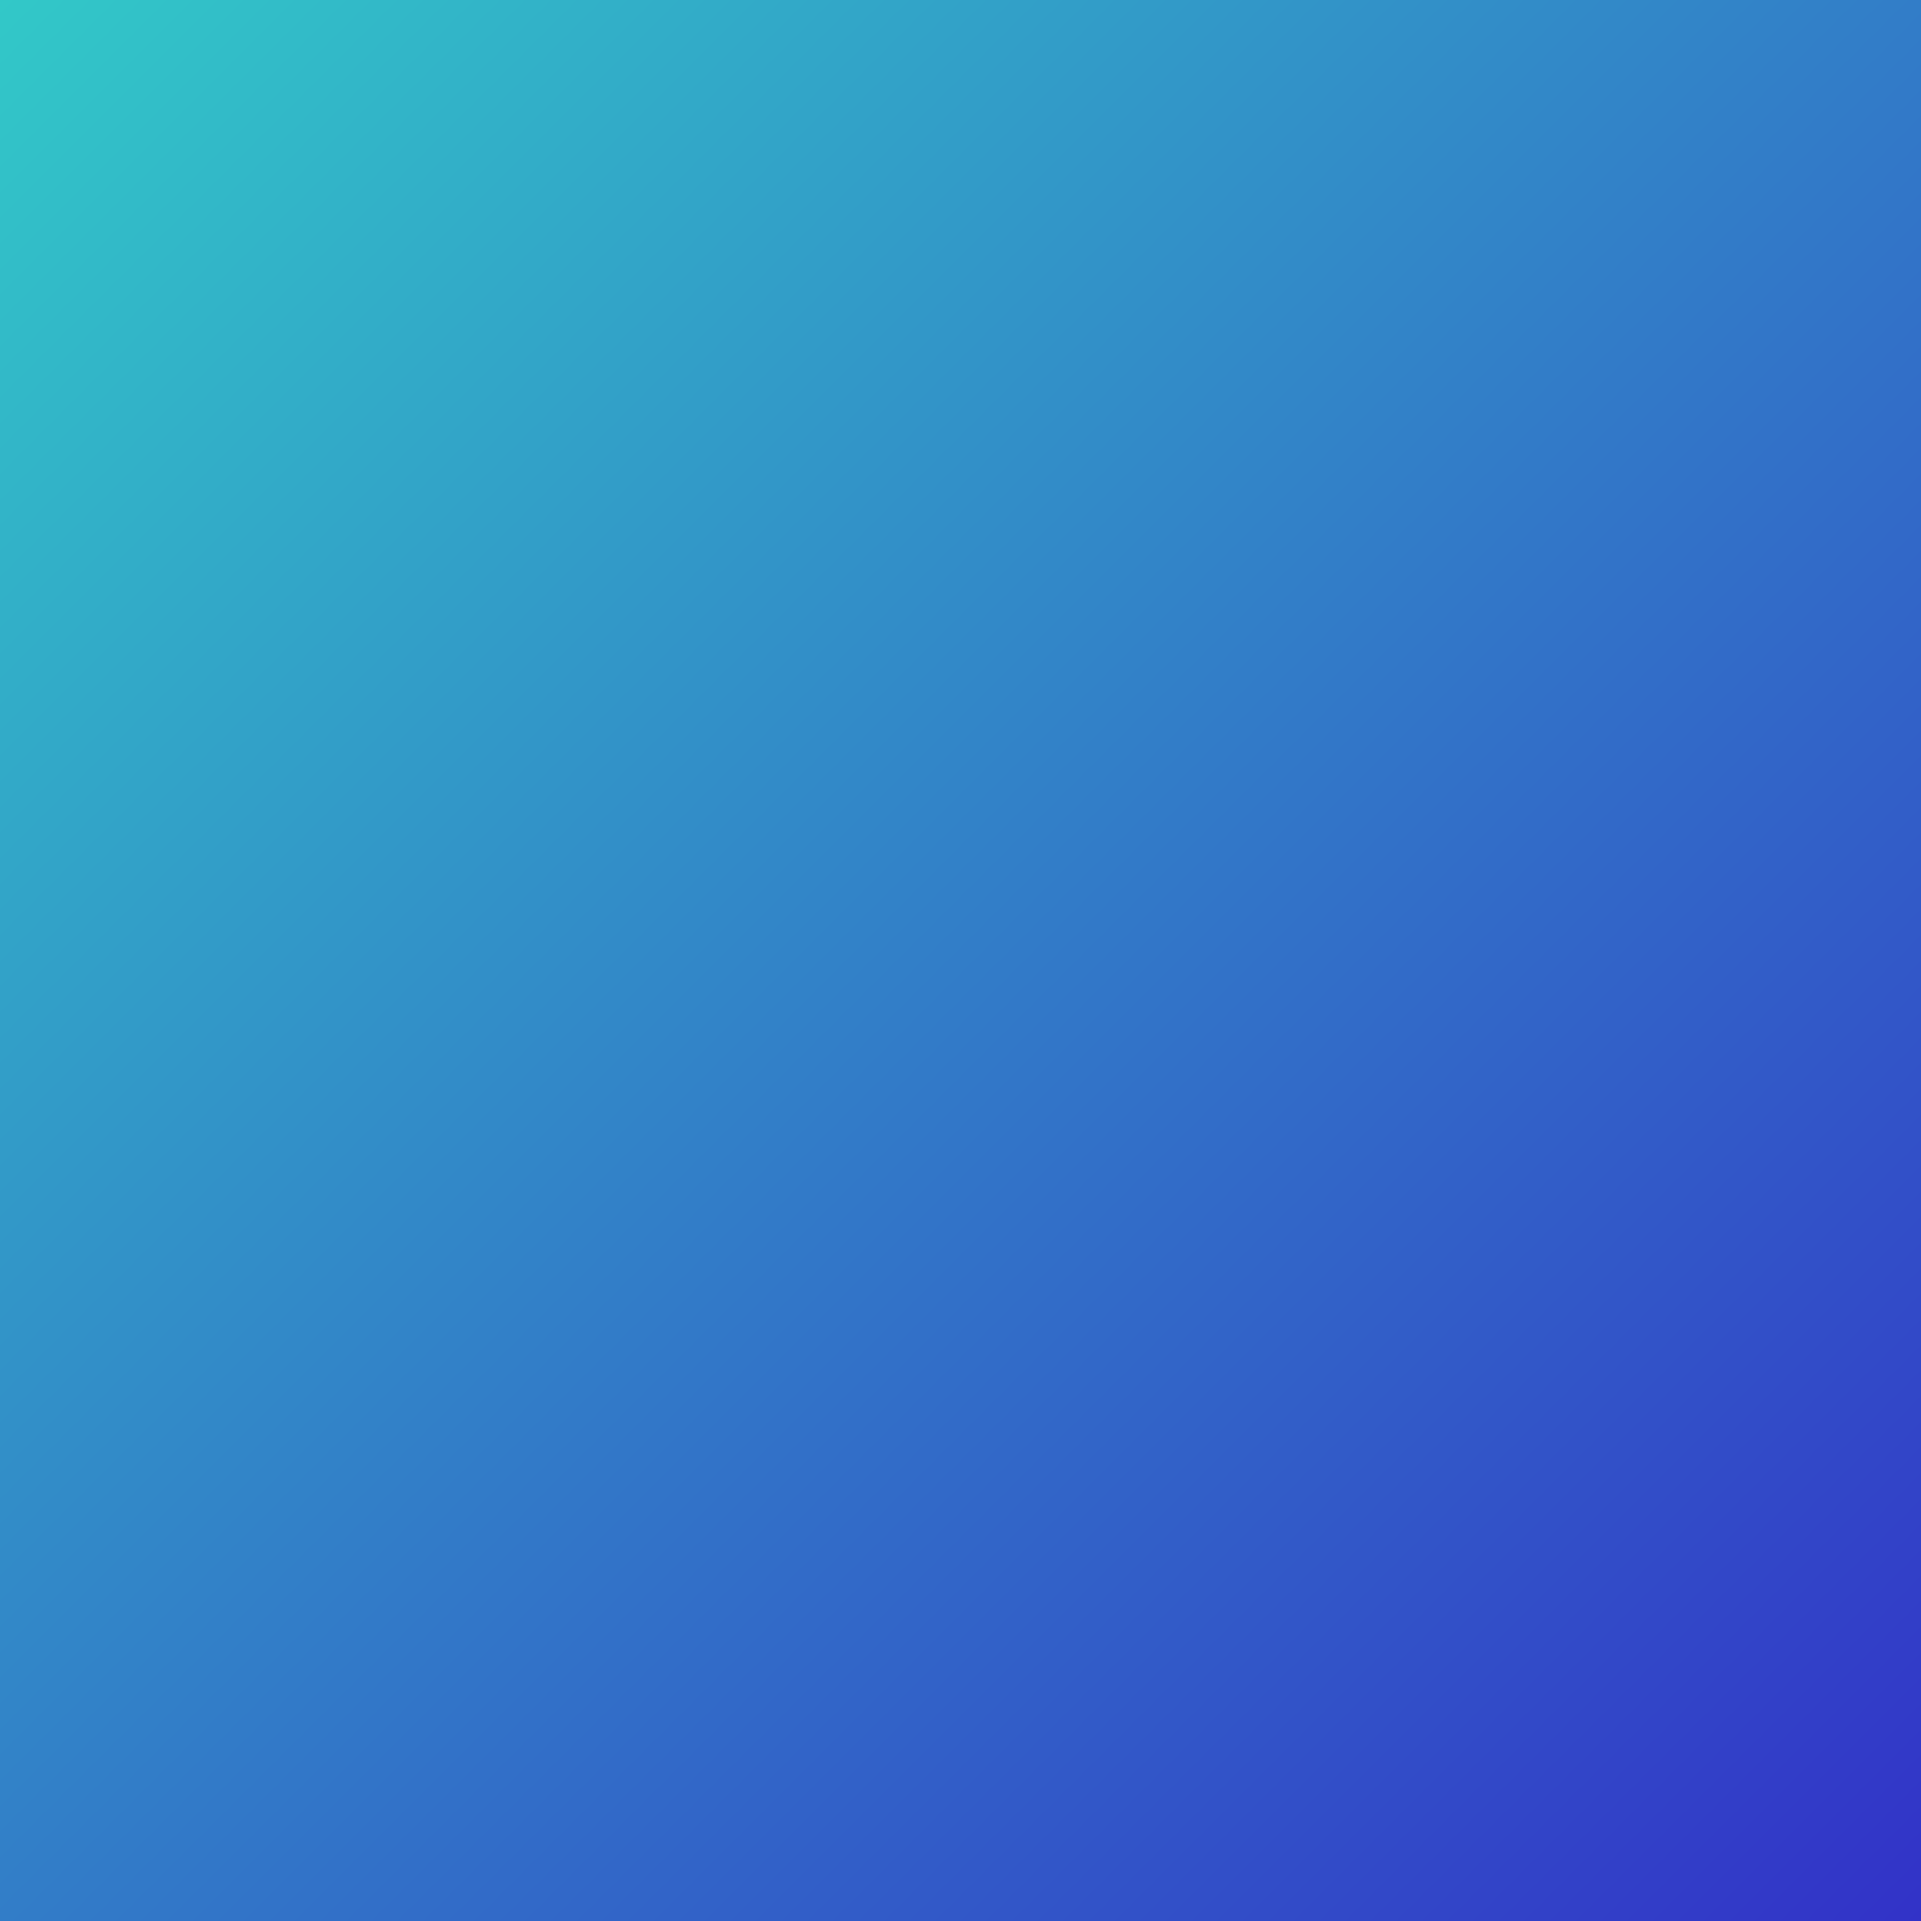
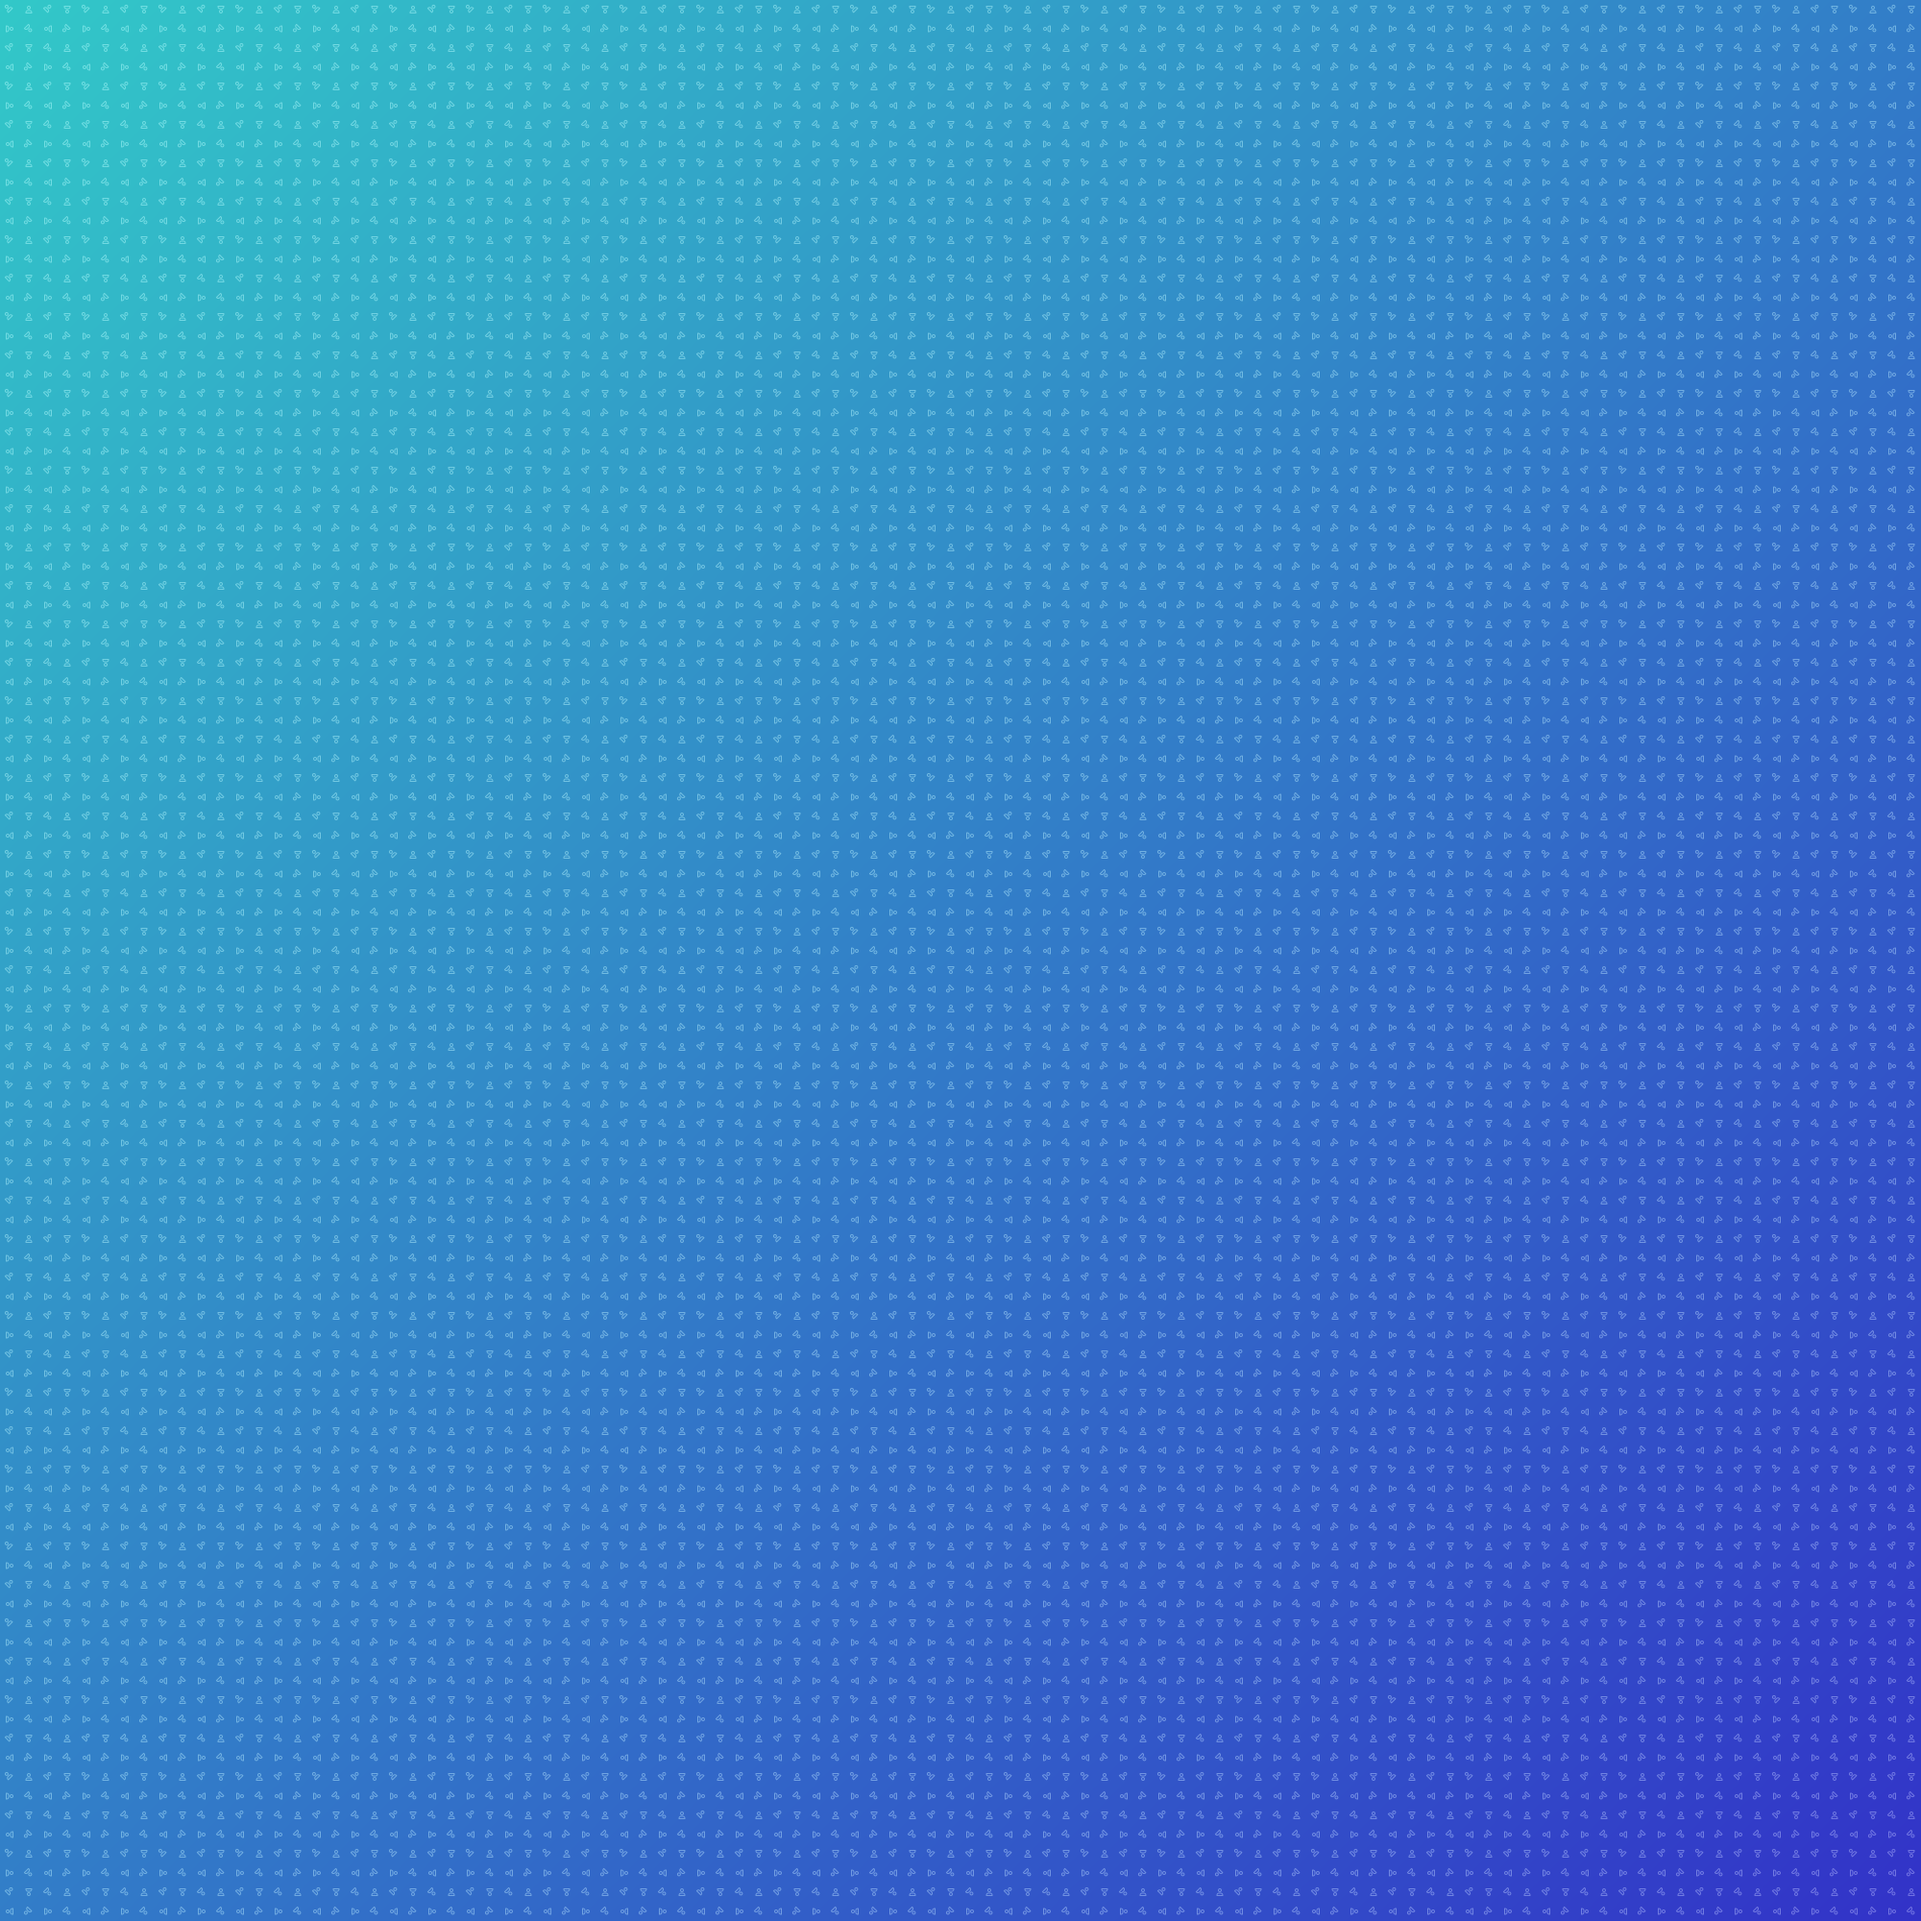
Content: add more funky pattern cover images

Changed region(s): [[0.992, 0.992, 1.0, 1.0], [0.992, 0.465, 1.0, 0.496], [0.434, 0.992, 0.465, 1.0]]

diff --git a/content/documentation/index.fr.md b/content/documentation/index.fr.md
@@ -2,7 +2,7 @@
 cover:
   alt: a cover alternative title
   caption: a cover caption
-  image: 8.png
+  image: 0.png
 author: FreeCAD
 description: Démarrer vos projets avec FreeCAD
 title: Documentation
@@ -13,7 +13,7 @@ menus:
   footer:
     weight: 5
 ---
-[![LINK TO GITHUB](8.png "Link to GitHub")](https://github.com/freecad)
+[![LINK TO GITHUB](0.png "Link to GitHub")](https://github.com/freecad)
 
 ## First Documentation Block
 
@@ -25,11 +25,11 @@ This is a text in the first block to go in the right. This is a text in the firs
 
 This is a text in the second block to go in the left. This is a text in the second block. This is a text in the second block to go in the left. This is a text in the second block to go in the left. This is a text in the second block to go in the left. This is a text in the second block.
 
-![](8.png)
+![](0.png)
 
 +++
 
-![](8.png)
+![](0.png)
 
 ## Third Documentation Block
 
@@ -41,4 +41,4 @@ This is a text in the third block to go in the right. This is a text in the thir
 
 This is a text in the fourth block to go in the left. This is a text in the fourth block. This is a text in the fourth block to go in the left. This is a text in the fourth block to go in the left. This is a text in the fourth block to go in the left. This is a text in the fourth block.
 
-![](8.png)
+![](0.png)

diff --git a/content/documentation/index.en.md b/content/documentation/index.en.md
@@ -2,7 +2,7 @@
 cover:
   alt: a cover alternative title
   caption: a cover caption
-  image: 8.png
+  image: 0.png
 author: FreeCAD
 description: Get started with FreeCAD
 title: Documentation
@@ -13,7 +13,7 @@ menus:
   footer:
     weight: 5
 ---
-[![LINK TO GITHUB](8.png "Link to GitHub")](https://github.com/freecad)
+[![LINK TO GITHUB](0.png "Link to GitHub")](https://github.com/freecad)
 
 ## First Documentation Block
 
@@ -25,11 +25,11 @@ This is a text in the first block to go in the right. This is a text in the firs
 
 This is a text in the second block to go in the left. This is a text in the second block. This is a text in the second block to go in the left. This is a text in the second block to go in the left. This is a text in the second block to go in the left. This is a text in the second block.
 
-![](8.png)
+![](0.png)
 
 +++
 
-![](8.png)
+![](0.png)
 
 ## Third Documentation Block
 
@@ -41,4 +41,4 @@ This is a text in the third block to go in the right. This is a text in the thir
 
 This is a text in the fourth block to go in the left. This is a text in the fourth block. This is a text in the fourth block to go in the left. This is a text in the fourth block to go in the left. This is a text in the fourth block to go in the left. This is a text in the fourth block.
 
-![](8.png)
+![](0.png)
